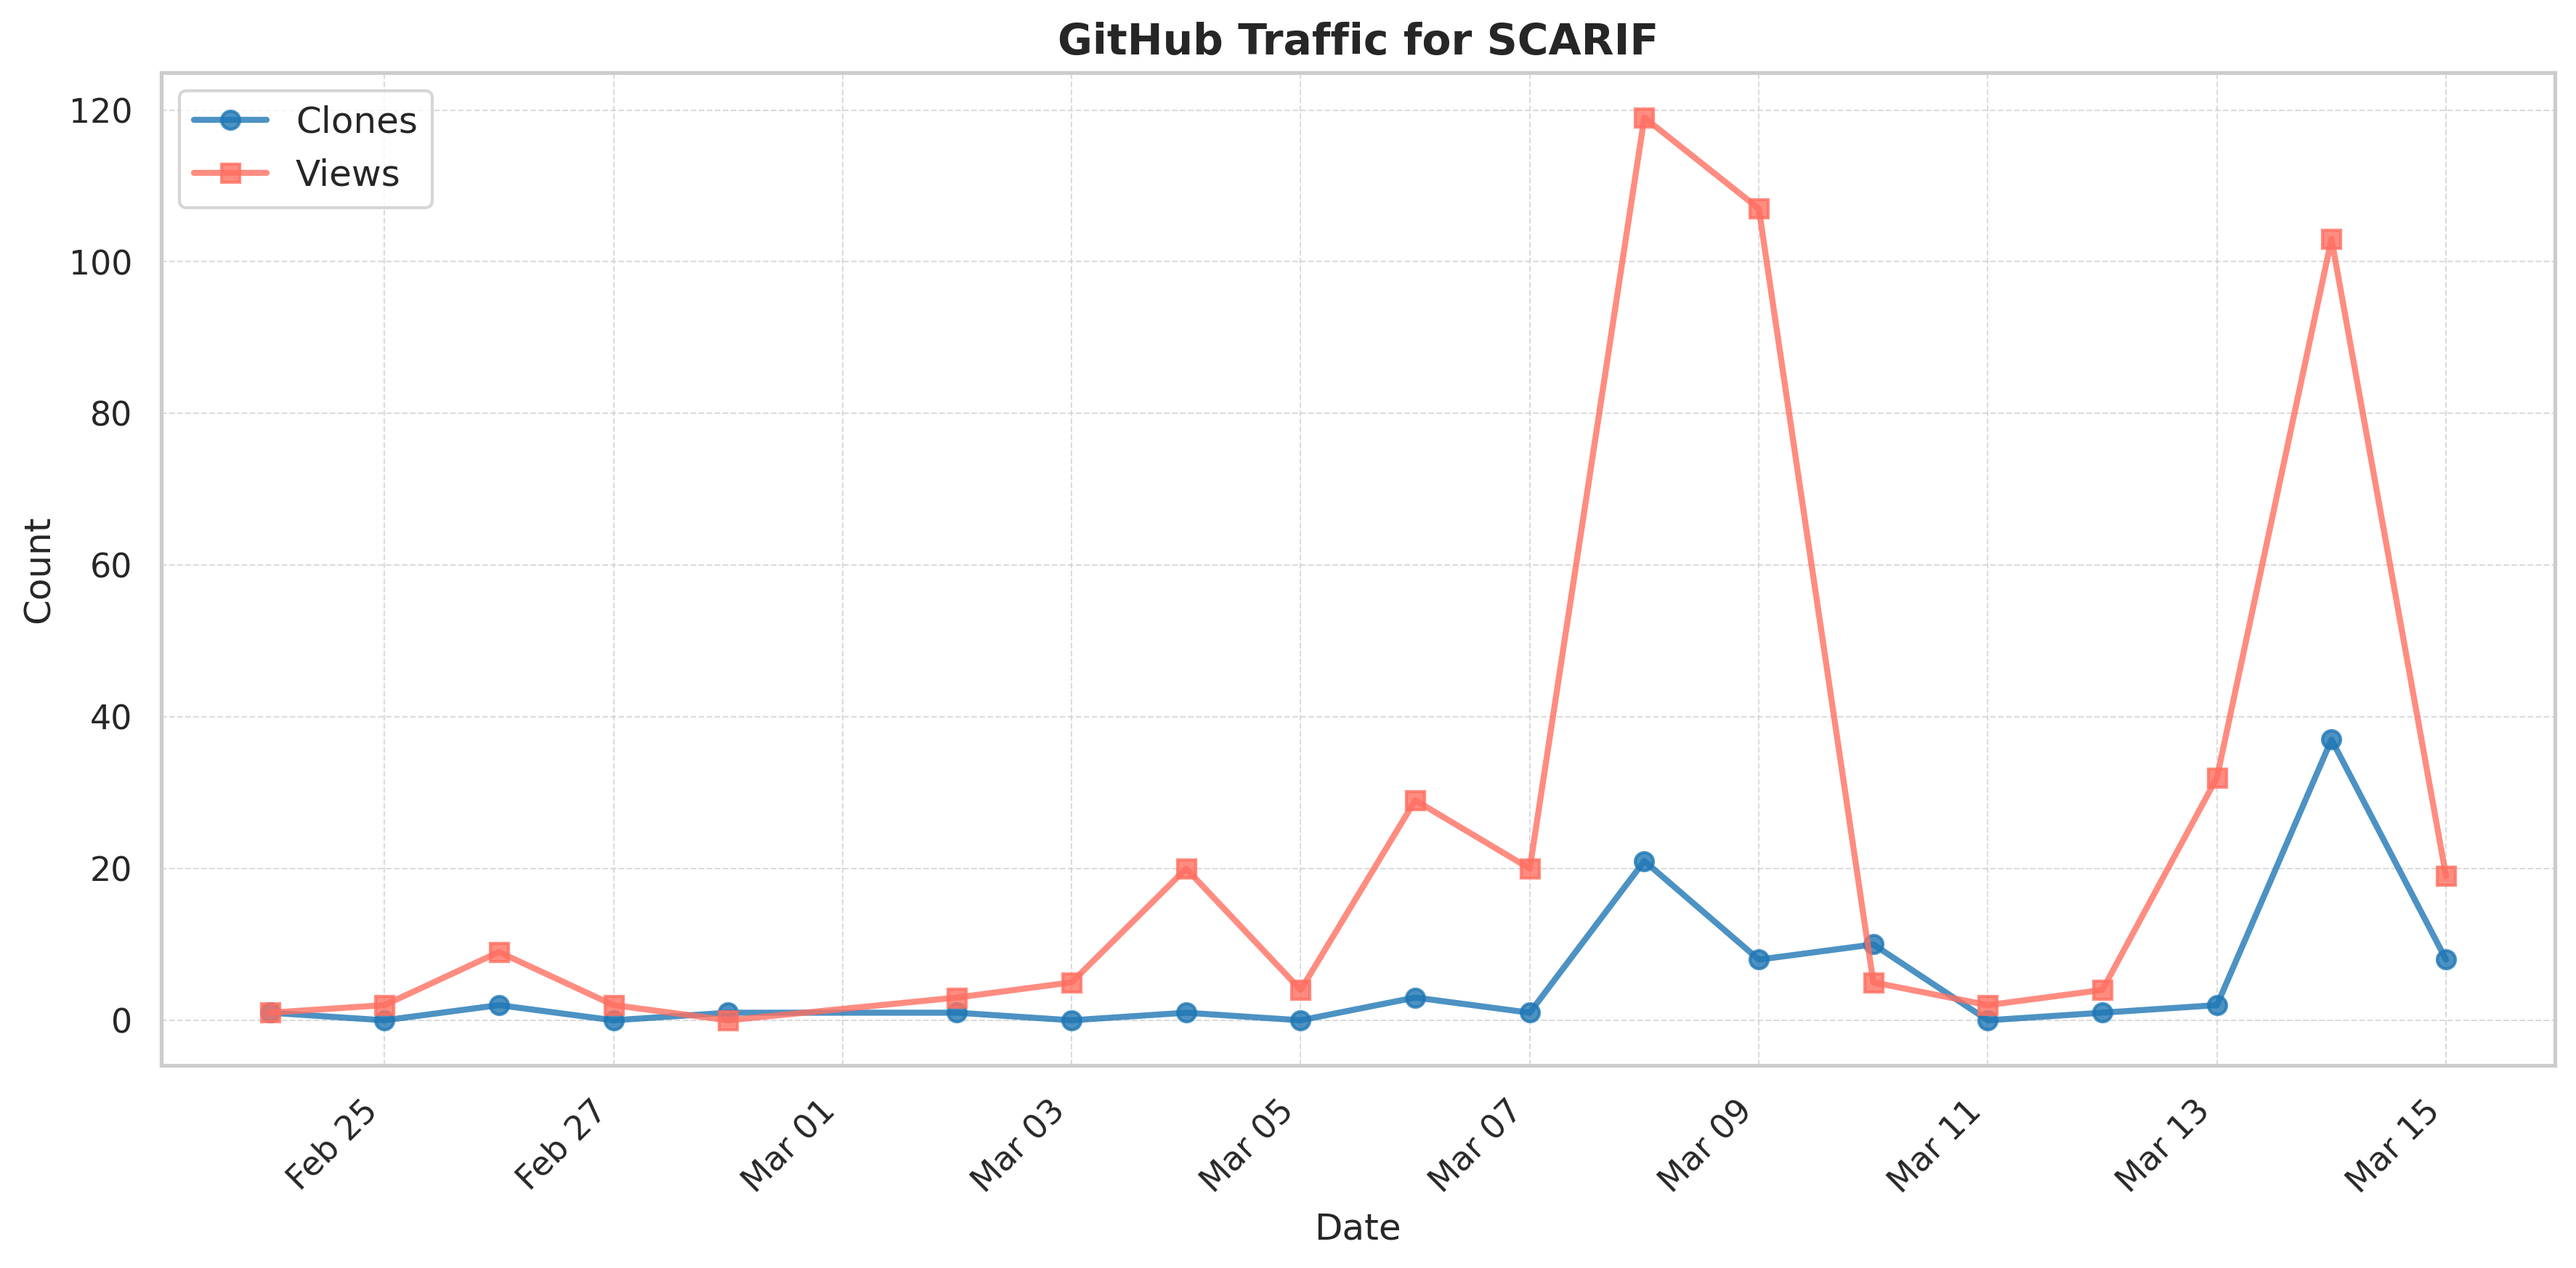
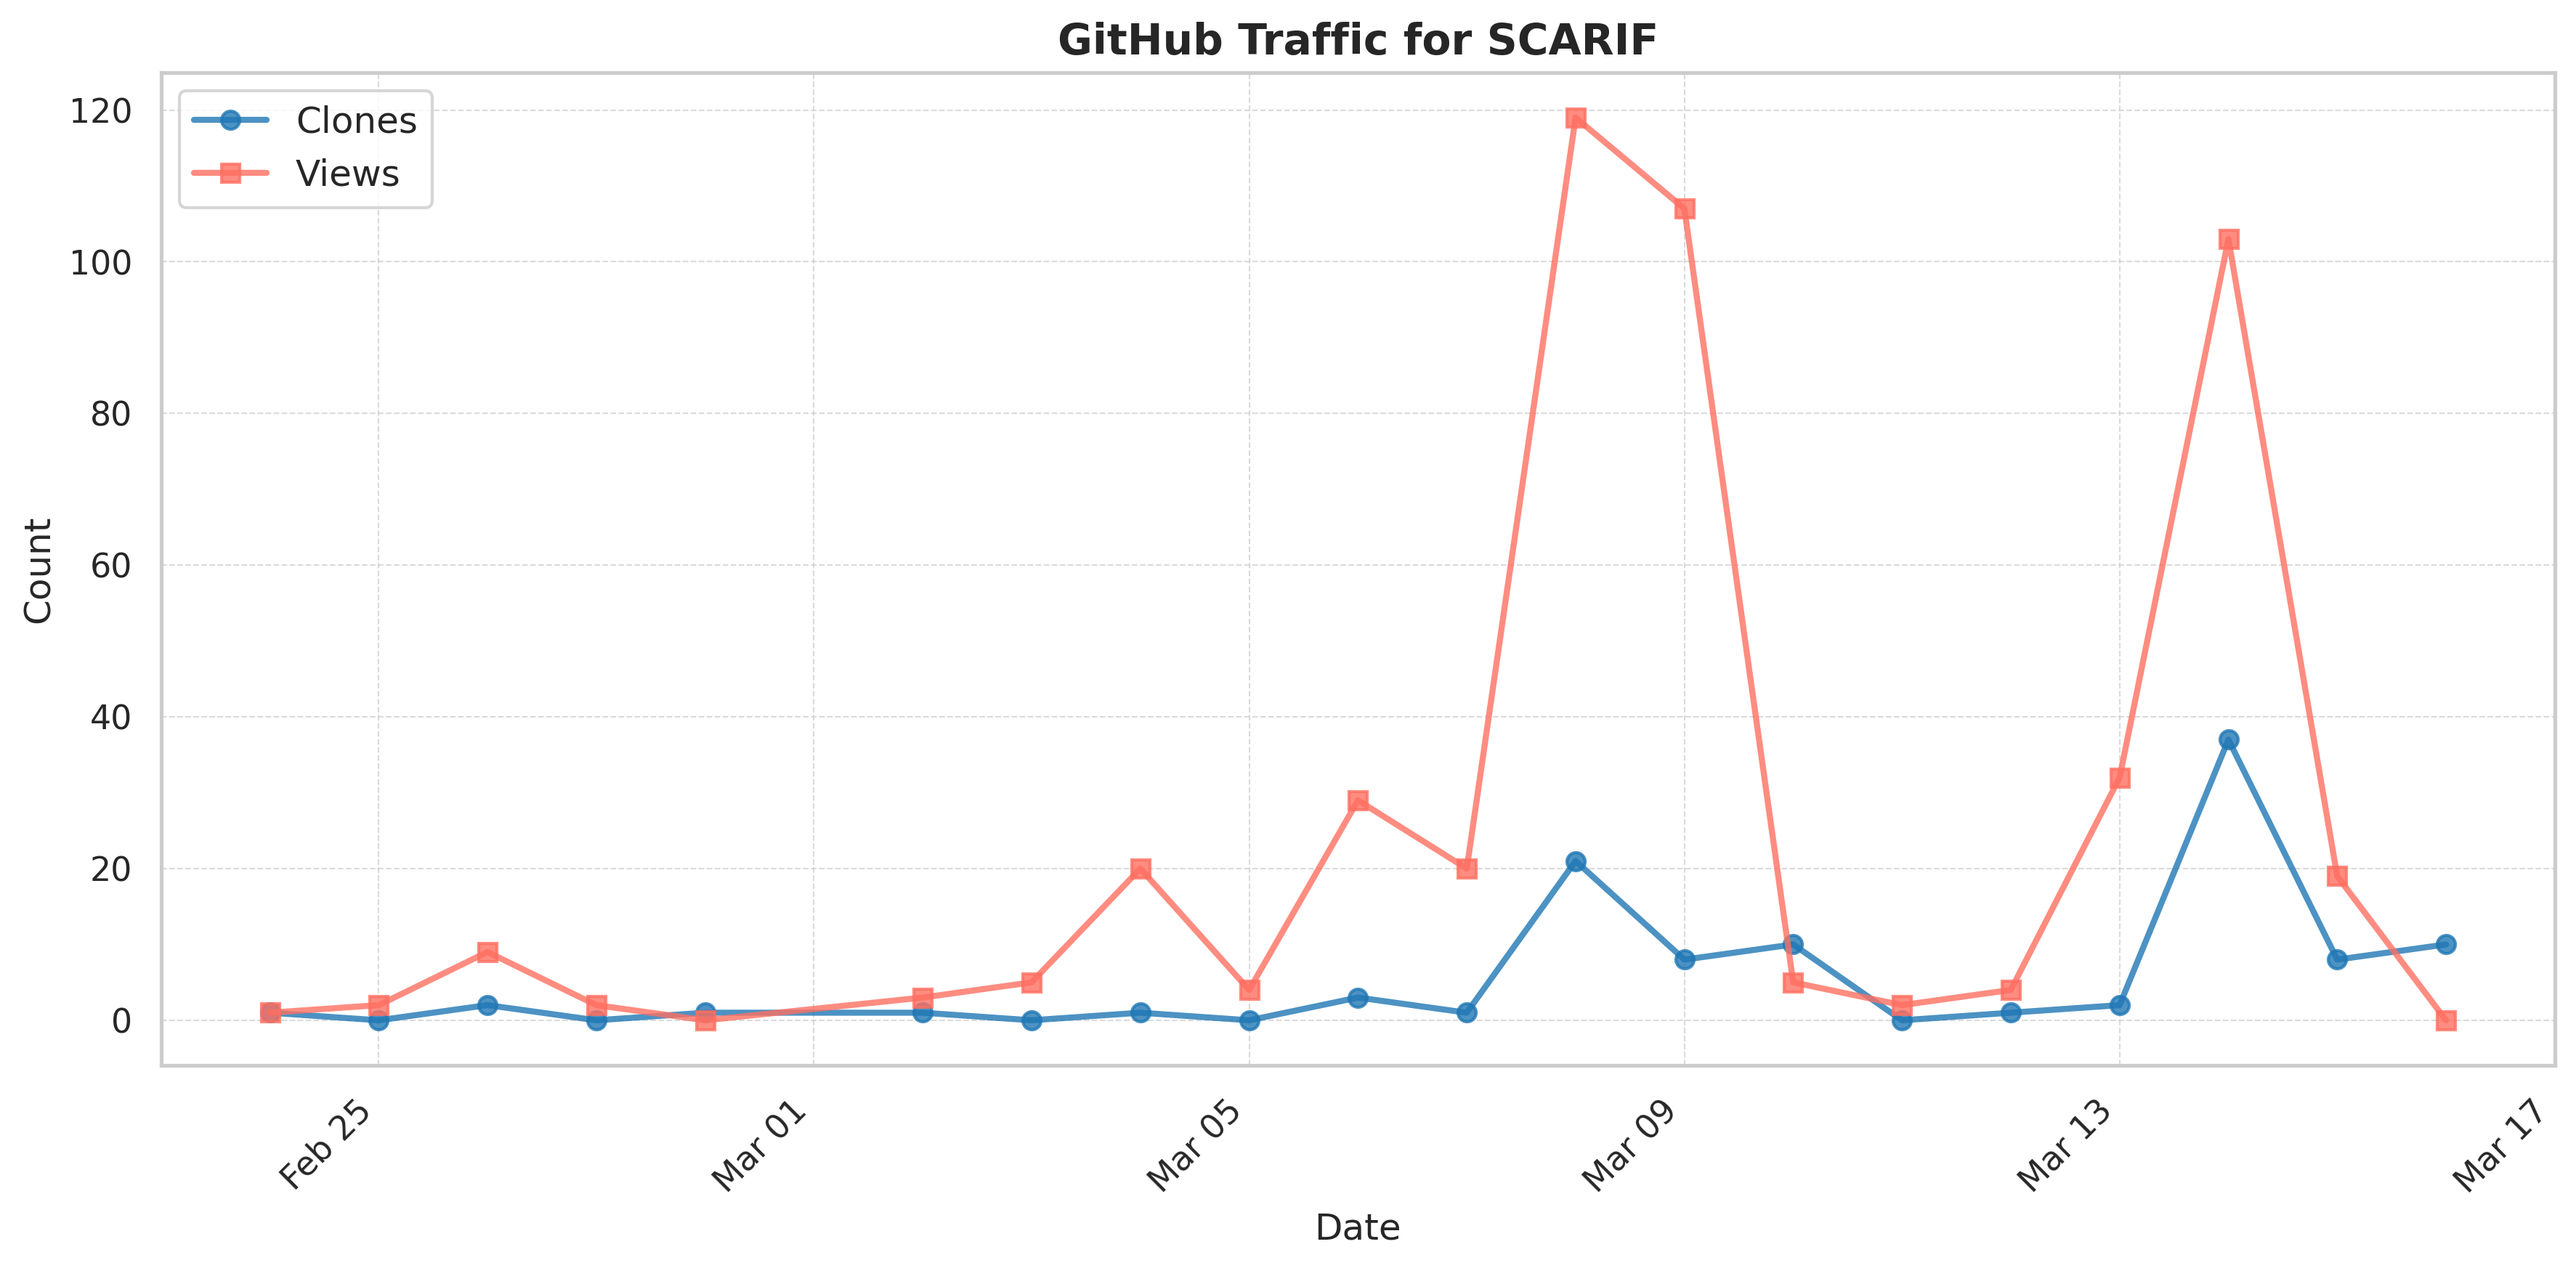
Auto-generated traffic_plot.png and plot_data.csv

diff --git a/README.md b/README.md
@@ -9,7 +9,7 @@ Student Collaborators: Stephen Cahoon
 
 ## 🚀 Thank You for Using SCARIF!!
 ### Your support and growing engagement inspire us to continually improve and enhance SCARIF
-- **Downloads since 22 Feb 2025:** <!--CLONES-->97<!--/CLONES-->
+- **Downloads since 22 Feb 2025:** <!--CLONES-->107<!--/CLONES-->
 - **Views: since 22 Feb 2025:** <!--VIEWS-->486<!--/VIEWS-->
 <img src="./assets/SCARIF_traffic_plot.png" width="600" />
 
